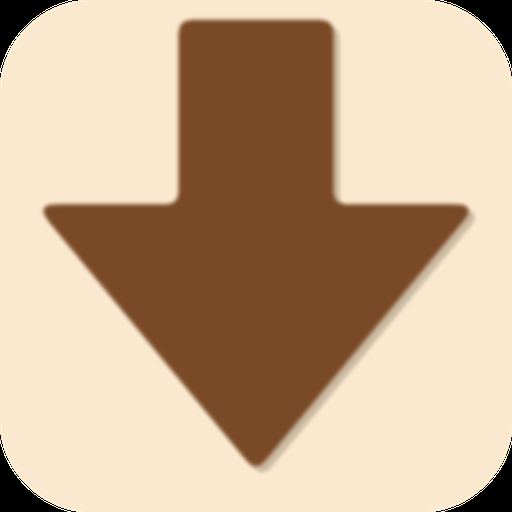
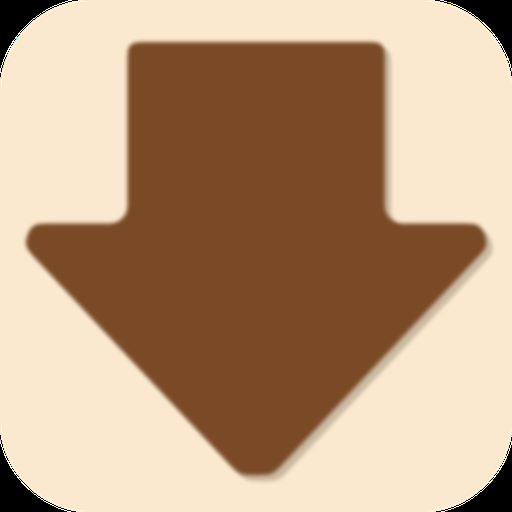
Add files via upload

Changed region(s): [[0.0312, 0.0312, 0.9688, 0.9375]]

diff --git a/app.js b/app.js
@@ -181,6 +181,12 @@ async function loadFile(file){
 let mediaRecorder = null;
 let recordedChunks = [];
 let isRecording = false;
+let recAudioCtx = null;
+let recAnalyser = null;
+let recStream = null;
+let recRafId = null;
+let recWaveform = [];   // amplitudes acumuladas durante la grabación
+let recStartTime = 0;
 
 btnRecord.addEventListener('click', async ()=>{
   if(isRecording){
@@ -189,28 +195,110 @@ btnRecord.addEventListener('click', async ()=>{
   }
   try{
     const stream = await navigator.mediaDevices.getUserMedia({audio:true});
+    recStream = stream;
     mediaRecorder = new MediaRecorder(stream);
     recordedChunks = [];
+    recWaveform = [];
     mediaRecorder.ondataavailable = (e)=> recordedChunks.push(e.data);
     mediaRecorder.onstop = async ()=>{
       isRecording = false;
       btnRecord.textContent = 'Grabar mic';
       btnRecord.classList.remove('recording');
+      stopRecVisualization();
       stream.getTracks().forEach(t=>t.stop());
       const blob = new Blob(recordedChunks, {type:'audio/webm'});
       const file = new File([blob], 'grabacion.webm', {type:'audio/webm'});
       await loadFile(file);
     };
+
+    // --- visualización en vivo ---
+    recAudioCtx = new (window.AudioContext||window.webkitAudioContext)();
+    const src = recAudioCtx.createMediaStreamSource(stream);
+    recAnalyser = recAudioCtx.createAnalyser();
+    recAnalyser.fftSize = 1024;
+    src.connect(recAnalyser);
+
+    // preparar el timeline para mostrar la grabación en curso
+    mediaType = 'audio';
+    videoEl.classList.add('hidden');
+    waveCanvas.classList.remove('hidden');
+    placeholderText.classList.add('hidden');
+    previewControls.classList.add('hidden');
+    tlEmpty.classList.add('hidden');
+    recStartTime = performance.now();
+
     mediaRecorder.start();
     isRecording = true;
     btnRecord.textContent = 'Detener ■';
     btnRecord.classList.add('recording');
     setStatus('Grabando…');
+    drawRecVisualization();
   }catch(err){
     console.error(err);
     setStatus('No se pudo acceder al micrófono');
   }
 });
+
+function stopRecVisualization(){
+  if(recRafId) cancelAnimationFrame(recRafId);
+  recRafId = null;
+  if(recAudioCtx){ try{ recAudioCtx.close(); }catch(e){} recAudioCtx = null; }
+  recAnalyser = null;
+}
+
+function drawRecVisualization(){
+  if(!isRecording || !recAnalyser) return;
+  const buf = new Float32Array(recAnalyser.fftSize);
+  recAnalyser.getFloatTimeDomainData(buf);
+  // amplitud RMS de este frame
+  let sum = 0;
+  for(let i=0;i<buf.length;i++) sum += buf[i]*buf[i];
+  const rms = Math.sqrt(sum/buf.length);
+  recWaveform.push(rms);
+
+  // dibujar la onda acumulada, desplazándose tipo "rolling" en el preview y timeline
+  drawRollingWave(waveCanvas, previewBox, recWaveform);
+  drawRollingWave(tlCanvas, timeline, recWaveform, true);
+
+  // actualizar contador de tiempo
+  const elapsed = (performance.now() - recStartTime)/1000;
+  setStatus('Grabando… ' + fmtTime(elapsed));
+
+  recRafId = requestAnimationFrame(drawRecVisualization);
+}
+
+// Dibuja una forma de onda tipo barras a partir de un array de amplitudes,
+// mostrando las más recientes a la derecha (efecto de avance).
+function drawRollingWave(canvas, container, amps, centerLine){
+  const dpr = window.devicePixelRatio || 1;
+  const rect = container.getBoundingClientRect();
+  const w = rect.width, h = rect.height;
+  if(canvas.width !== w*dpr || canvas.height !== h*dpr){
+    canvas.width = w*dpr; canvas.height = h*dpr;
+    canvas.style.width = w+'px'; canvas.style.height = h+'px';
+  }
+  const ctx = canvas.getContext('2d');
+  ctx.setTransform(dpr,0,0,dpr,0,0);
+  ctx.clearRect(0,0,w,h);
+
+  const barW = 3, gap = 1;
+  const totalBars = Math.floor(w/(barW+gap));
+  const slice = amps.slice(-totalBars); // las más recientes
+  const mid = h/2;
+  ctx.fillStyle = getComputedStyle(document.documentElement).getPropertyValue('--white').trim() || '#fdf3e3';
+
+  for(let i=0;i<slice.length;i++){
+    const amp = Math.min(1, slice[i]*4); // escalar para que se vea
+    const barH = Math.max(2, amp*h*0.85);
+    const x = i*(barW+gap);
+    ctx.fillRect(x, mid - barH/2, barW, barH);
+  }
+
+  if(centerLine){
+    // línea de playhead al centro como en el timeline normal
+    const phColor = getComputedStyle(document.documentElement).getPropertyValue('--white').trim() || '#fff';
+  }
+}
 
 // ============================================================
 // Waveform
@@ -711,41 +799,120 @@ function openExportDialog(){
 }
 
 // ============================================================
-// Detector de tono en tiempo real (botón "Detectar tono")
+// Detector de tono del AUDIO CARGADO (botón "Detectar tono")
+// Analiza el buffer ya grabado/subido y muestra la nota predominante.
 // ============================================================
 btnDetectTone.addEventListener('click', async ()=>{
-  if(!tunerPanel.classList.contains('hidden') && tunerActive){
-    stopTuner();
+  // Si el panel está abierto en modo "audio", lo cerramos
+  if(!tunerPanel.classList.contains('hidden') && tunerMode === 'audiofile'){
     tunerPanel.classList.add('hidden');
     btnDetectTone.classList.remove('active');
     return;
   }
+  if(!workingBuffer){
+    setStatus('Primero sube o graba un audio', 2500);
+    return;
+  }
+  // Detener el afinador en vivo si estaba activo
+  if(tunerActive) stopTuner();
+
   tunerPanel.classList.remove('hidden');
-  setMode('chromatic', true);
+  setModeAudioFile();
   btnDetectTone.classList.add('active');
-  await startTuner();
+  analyzeLoadedAudioTone();
   tunerPanel.scrollIntoView({behavior:'smooth', block:'center'});
 });
 
+// Analiza el audio cargado: toma muestras a lo largo del clip, detecta la
+// frecuencia en cada una, y reporta la nota más frecuente + un desglose.
+function analyzeLoadedAudioTone(){
+  const buffer = getEffectiveBuffer();
+  if(!buffer){ return; }
+  const sr = buffer.sampleRate;
+  const data = buffer.getChannelData(0);
+  const windowSize = 4096;
+  const numWindows = 40; // cuántos puntos analizar a lo largo del audio
+  const step = Math.max(windowSize, Math.floor((data.length - windowSize) / numWindows));
+
+  const noteCounts = {};
+  const detectedFreqs = [];
+  let analyzed = 0;
+
+  for(let start=0; start + windowSize < data.length; start += step){
+    const slice = data.slice(start, start + windowSize);
+    const freq = autoCorrelate(slice, sr);
+    if(freq > 40 && freq < 2000 && isFinite(freq)){
+      detectedFreqs.push(freq);
+      const {name, octave} = freqToNote(freq);
+      const key = name + octave;
+      noteCounts[key] = (noteCounts[key]||0) + 1;
+      analyzed++;
+    }
+  }
+
+  if(analyzed === 0){
+    tunerNote.textContent = '—';
+    tunerFreq.textContent = 'Sin tono claro';
+    tunerStatus.textContent = 'No se detectó una nota definida (¿voz/ruido?)';
+    tunerNeedle.style.left = '50%';
+    stringsRow.innerHTML = '';
+    return;
+  }
+
+  // nota predominante
+  let topNote = null, topCount = 0;
+  for(const k in noteCounts){ if(noteCounts[k] > topCount){ topCount = noteCounts[k]; topNote = k; } }
+
+  // frecuencia mediana de las detecciones (más robusta que el promedio)
+  detectedFreqs.sort((a,b)=>a-b);
+  const medianFreq = detectedFreqs[Math.floor(detectedFreqs.length/2)];
+  const {name, octave, cents} = freqToNote(medianFreq);
+
+  tunerNote.textContent = topNote;
+  tunerFreq.textContent = `${medianFreq.toFixed(1)} Hz (mediana)`;
+  tunerStatus.textContent = `Nota predominante en el audio · ${analyzed} muestras`;
+
+  // posición de la aguja según afinación de la nota mediana
+  const pct = clamp(50 + cents/50*50, 0, 100);
+  tunerNeedle.style.left = pct + '%';
+  tunerNeedle.style.background = Math.abs(cents)<15 ? 'var(--green)' : 'var(--white)';
+
+  // mostrar top 3 notas detectadas como chips
+  const sorted = Object.entries(noteCounts).sort((a,b)=>b[1]-a[1]).slice(0,3);
+  stringsRow.innerHTML = '';
+  sorted.forEach(([note,count])=>{
+    const pctg = Math.round(count/analyzed*100);
+    const chip = document.createElement('div');
+    chip.className = 'string-chip';
+    chip.innerHTML = `${note}<small>${pctg}%</small>`;
+    stringsRow.appendChild(chip);
+  });
+}
+
 // ============================================================
-// Afinador desplegable
+// Afinador EN TIEMPO REAL con micrófono (botón "Afinador")
 // ============================================================
 btnTunerToggle.addEventListener('click', async ()=>{
   const wasHidden = tunerPanel.classList.contains('hidden');
-  tunerPanel.classList.toggle('hidden');
-  if(wasHidden){
-    setMode('guitar', true);
-    await startTuner();
-    tunerPanel.scrollIntoView({behavior:'smooth', block:'center'});
-  } else {
+  const wasAudioMode = tunerMode === 'audiofile';
+  if(!wasHidden && !wasAudioMode){
+    // estaba abierto en modo afinador en vivo -> cerrar
     stopTuner();
-    btnDetectTone.classList.remove('active');
+    tunerPanel.classList.add('hidden');
+    return;
   }
+  tunerPanel.classList.remove('hidden');
+  btnDetectTone.classList.remove('active');
+  setMode('guitar', true);
+  await startTuner();
+  tunerPanel.scrollIntoView({behavior:'smooth', block:'center'});
 });
 
 document.querySelectorAll('.mode-btn').forEach(btn=>{
   btn.addEventListener('click', ()=> setMode(btn.dataset.mode, false));
 });
+
+$('reanalyzeBtn').addEventListener('click', analyzeLoadedAudioTone);
 
 const TUNINGS = {
   guitar: [
@@ -766,13 +933,28 @@ const TUNINGS = {
 
 function setMode(mode, keepNeedle){
   tunerMode = mode;
+  // modo afinador en vivo: mostrar selector de instrumento, título Afinador
+  $('tunerTitle').textContent = 'Afinador';
+  $('tunerModeRow').classList.remove('hidden');
+  $('tunerHint').textContent = 'Toca una cuerda y mantenla sonando. El indicador se pone verde cuando está afinada.';
+  $('tunerHint').classList.remove('hidden');
+  $('reanalyzeBtn').classList.add('hidden');
   document.querySelectorAll('.mode-btn').forEach(b=> b.classList.toggle('selected', b.dataset.mode===mode));
   renderStrings();
 }
 
+function setModeAudioFile(){
+  tunerMode = 'audiofile';
+  $('tunerTitle').textContent = 'Tono del audio';
+  $('tunerModeRow').classList.add('hidden');
+  $('tunerHint').textContent = 'Análisis de la nota predominante en el audio cargado. Los chips muestran las 3 notas más frecuentes.';
+  $('tunerHint').classList.remove('hidden');
+  $('reanalyzeBtn').classList.remove('hidden');
+}
+
 function renderStrings(){
   stringsRow.innerHTML = '';
-  if(tunerMode==='chromatic'){ return; }
+  if(tunerMode==='chromatic' || tunerMode==='audiofile'){ return; }
   const strings = TUNINGS[tunerMode];
   strings.forEach(s=>{
     const chip = document.createElement('div');

diff --git a/index.html b/index.html
@@ -280,23 +280,23 @@ input[type=range]::-webkit-slider-thumb{
 
   <div class="topbar">
     <div class="left">
-      <span class="brand">Appa</span>
+      <span class="brand">APPA</span>
       <button class="menu-link" id="btnExportarTop">Exportar</button>
     </div>
     <div class="appa-arrow" aria-hidden="true">
-      <svg viewBox="0 0 80 96" width="80" height="86">
-        <path d="M16 -4
-                 L64 -4
-                 L64 44
-                 Q64 46 66 46
-                 L70 46
-                 Q74 46 71 49
-                 L43 88
-                 Q40 92 37 88
-                 L9 49
-                 Q6 46 10 46
-                 L14 46
-                 Q16 46 16 44
+      <svg viewBox="0 0 96 96" width="84" height="86">
+        <path d="M24 -4
+                 L72 -4
+                 L72 40
+                 Q72 42 74 42
+                 L90 42
+                 Q95 42 91.5 46
+                 L51 89
+                 Q48 93 45 89
+                 L4.5 46
+                 Q1 42 6 42
+                 L22 42
+                 Q24 42 24 40
                  Z" fill="#7a4a26"/>
       </svg>
     </div>
@@ -360,8 +360,8 @@ input[type=range]::-webkit-slider-thumb{
   </div>
 
   <div class="panel hidden" id="tunerPanel">
-    <h3>Afinador</h3>
-    <div class="tuner-mode-row">
+    <h3 id="tunerTitle">Afinador</h3>
+    <div class="tuner-mode-row" id="tunerModeRow">
       <button class="mode-btn selected" data-mode="guitar">Guitarra</button>
       <button class="mode-btn" data-mode="ukulele">Ukelele</button>
       <button class="mode-btn" data-mode="chromatic">Cromático</button>
@@ -373,7 +373,8 @@ input[type=range]::-webkit-slider-thumb{
       <div class="tuner-status" id="tunerStatus">Esperando micrófono…</div>
     </div>
     <div class="strings-row" id="stringsRow"></div>
-    <div class="mic-hint">Toca una cuerda y mantenla sonando. El indicador se pone verde cuando está afinada.</div>
+    <div class="mic-hint" id="tunerHint">Toca una cuerda y mantenla sonando. El indicador se pone verde cuando está afinada.</div>
+    <button class="menu-toggle-btn hidden" id="reanalyzeBtn" style="margin-top:12px;">Volver a analizar</button>
   </div>
 
   <!-- MODAL: Exportar (Pro) -->
@@ -395,7 +396,7 @@ input[type=range]::-webkit-slider-thumb{
   <div class="modal-overlay hidden" id="appaMenu">
     <div class="modal-card">
       <div class="modal-header">
-        <h3>Appa</h3>
+        <h3>APPA</h3>
         <button class="modal-close" id="menuClose">&times;</button>
       </div>
 
@@ -413,7 +414,7 @@ input[type=range]::-webkit-slider-thumb{
             <input type="color" id="colorCreamPicker" value="#fbe9cf">
           </label>
         </div>
-        <button class="menu-toggle-btn" id="invertBtn">&#8646; Invertir café ↔ beige</button>
+        <button class="menu-toggle-btn" id="invertBtn">&#8646; Invertir</button>
         <button class="menu-toggle-btn" id="resetColorsBtn">Restablecer colores originales</button>
       </div>
 

diff --git a/sw.js b/sw.js
@@ -1,4 +1,4 @@
-const CACHE_NAME = 'appa-cache-v4';
+const CACHE_NAME = 'appa-cache-v5';
 const ASSETS = ['./', './index.html', './app.js', './soundtouch.js', './lamejs.js', './manifest.json', './icon-192.png', './icon-512.png'];
 
 self.addEventListener('install', (event)=>{